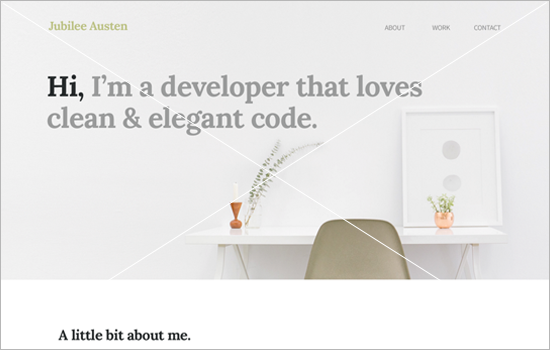
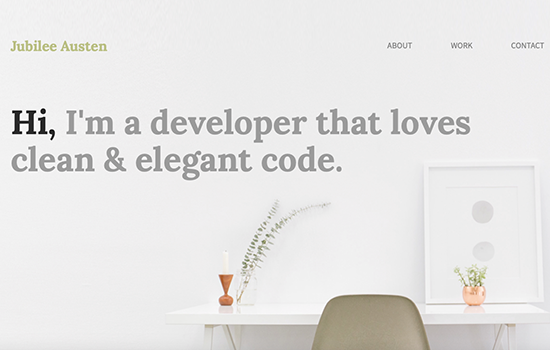
Fixed errors and created new thumbnails

diff --git a/index.html b/index.html
@@ -11,7 +11,7 @@
     <body>
         <section class="menu-bar">
             <div class="half-bar">
-                <p>&#60;marlene cruz lozano | web developer&#62;</p>
+                <p>&#60;marlene cruz | web developer &#47;&#62;</p>
             </div>
             <div class="half-bar">
                 <nav>
@@ -26,7 +26,7 @@
         </section>
         <header>
             <div class="full-width">
-                <h1>innovative<br><span style= "color:#fa0075;">creative</span><br>web design</h1>
+                <h1>innovative<br><span>creative</span><br>web design</h1>
             </div>
         </header>
         <main>
@@ -72,7 +72,7 @@
                 <div class="full-width">
                   <h2>about me</h2>
                   <div class="half-width">
-                      <p>Hi, my name is <span style="color:#fa0075;">Marlene!</span> <br><br> I’m a creative musician,  innovative web developer and “conative” person.
+                      <p>Hi, my name is <span>Marlene!</span> <br><br> I’m a creative musician,  innovative web developer and “conative” person.
                         I love merging tech with art!  I am uniquely able to take on future-oriented challenges. I lead the way to visionary possibilities and create what others said couldn’t be done. I’ll say “yes” before even knowing the end of the question -
                         then turn it into a productive adventure!</p>
                   </div>

diff --git a/css/main.css b/css/main.css
@@ -65,13 +65,13 @@ section nav {
 
 section nav ul li {
     display: inline-block;
+
 }
 
 section nav ul li a{
     color: inherit;
     text-decoration: none;
     padding-right: 45px;
-
 }
 
 /***** Header *****/
@@ -87,7 +87,9 @@ header h1 {
     font-weight: semibold;
     padding-top: 150px;
 }
-
+header span{
+    color: #fa0075;
+}
 
 
 
@@ -99,7 +101,7 @@ header h1 {
     color: #fa0075;
     font-family: 'Source Code Pro', monospace;
     font-size: 36px;
-    font-weight: semibold;
+    font-weight: 500;
     text-align: center;
 }
 
@@ -147,7 +149,7 @@ header h1 {
   color: #fa0075;
   font-family: 'Source Code Pro', monospace;
   font-size: 36px;
-  font-weight: semibold;
+  font-weight: 500;
   text-align: center;
   padding-bottom: 50px;
 
@@ -174,7 +176,7 @@ header h1 {
     color: #fa0075;
     font-family: 'Source Code Pro', monospace;
     font-size: 36px;
-    font-weight: semibold;
+    font-weight: 500;
     text-align: center;
     padding-top: 25px;
 }
@@ -183,7 +185,8 @@ header h1 {
   padding-top: 50px;
 }
 
-#about .half-width{
+#about span {
+  color:#fa0075;
 }
 
 /*****  Contact *****/
@@ -193,7 +196,7 @@ header h1 {
     color: #fa0075;
     font-family: 'Source Code Pro', monospace;
     font-size: 36px;
-    font-weight: semibold;
+    font-weight: 500;
     text-align: center;
 }
 
@@ -215,5 +218,4 @@ header h1 {
 
 footer p{
   text-align: center;
-
 }
